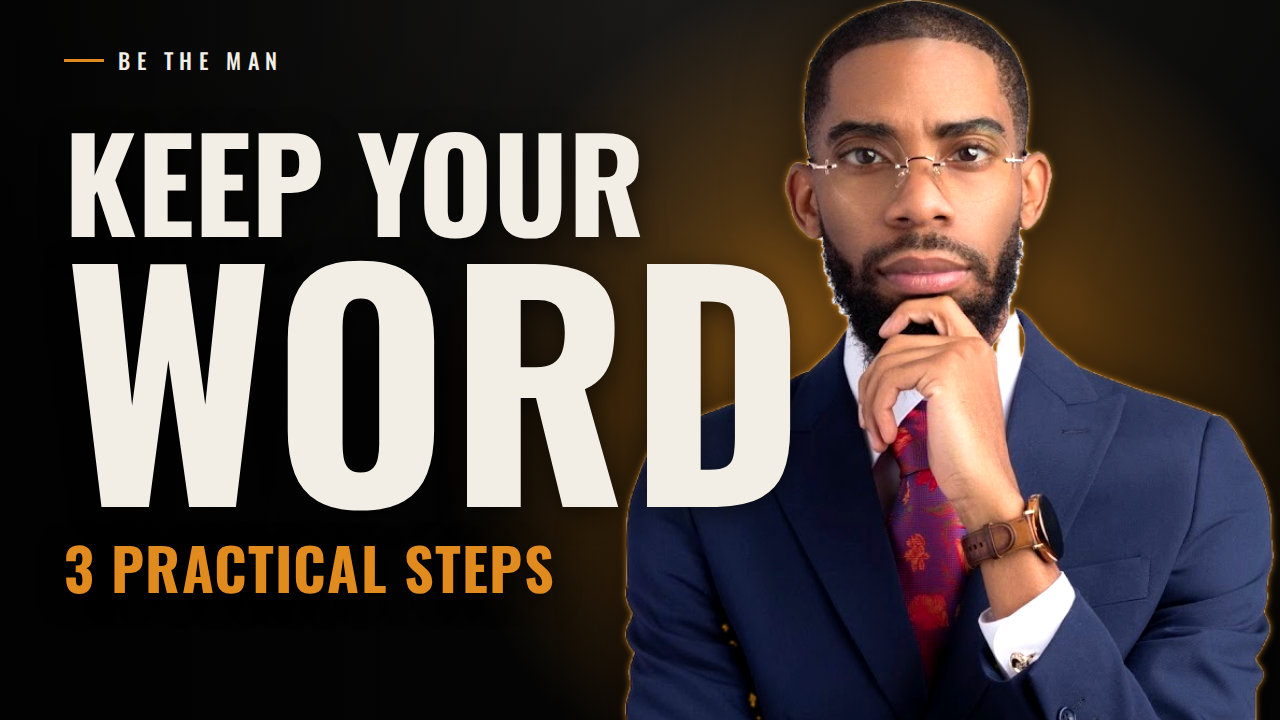
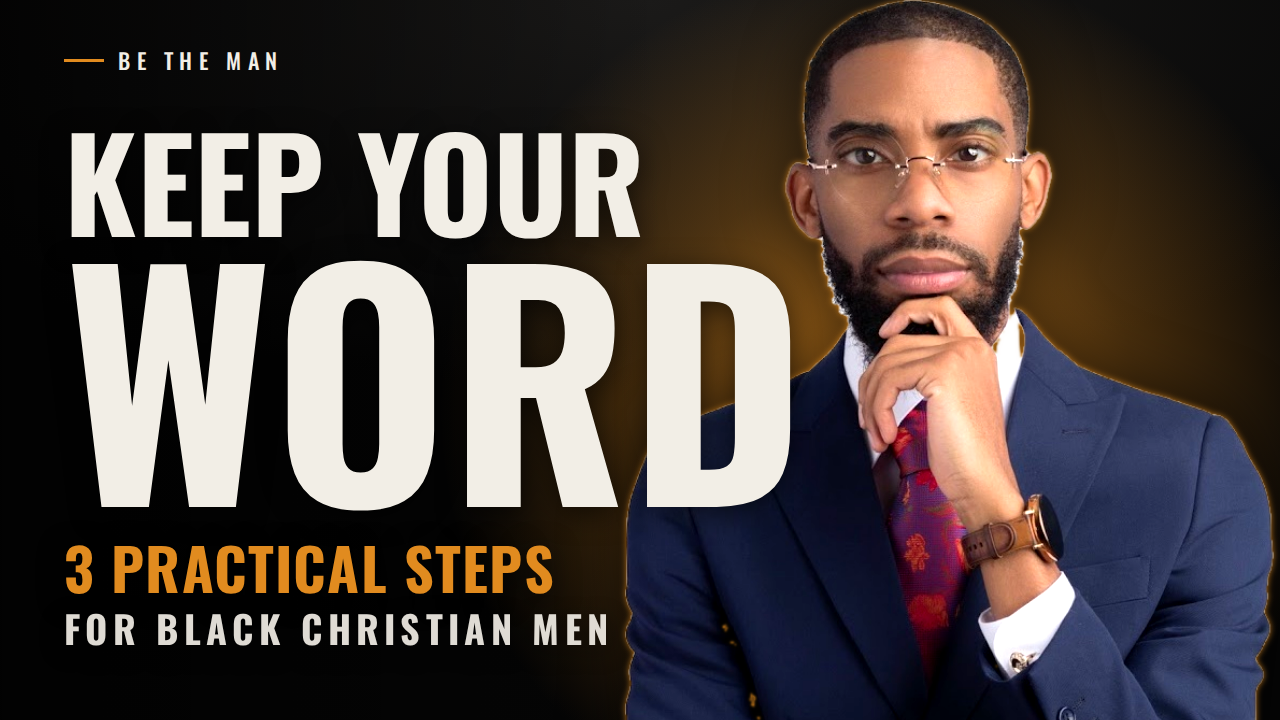
Aim keep-your-word video at Black Christian men (thumbnail, script, title, description, tags)
Claude-Session: https://claude.ai/code/session_01RwrZ13uXv7WXcEAUfWQJzd

Changed region(s): [[0.0312, 0.8556, 0.5, 0.9167]]

diff --git a/instagram/YOUTUBE-KEEP-YOUR-WORD.md b/instagram/YOUTUBE-KEEP-YOUR-WORD.md
@@ -1,4 +1,4 @@
-# YouTube: "How to Keep Your Word as a Christian Man (3 Steps)" (this week's 5-minute video)
+# YouTube: "How to Keep Your Word as a Black Christian Man (3 Steps)" (this week's 5-minute video)
 
 Script: `YOUTUBE-KEEP-YOUR-WORD-SCRIPT.md`
 **Thumbnail:** `posts/out/youtube-keep-your-word-thumbnail.png` (1280×720). Re-render with `node posts/youtube-thumb-keep-your-word.mjs`.
@@ -22,16 +22,17 @@ Script: `YOUTUBE-KEEP-YOUR-WORD-SCRIPT.md`
 
 ## Thumbnail
 
-"KEEP YOUR WORD" in huge cream type with **"3 PRACTICAL STEPS"** in amber, so the promise is a how-to, not a pitch. Your thinking-pose photo on black, amber glow, bottom-right clear for YouTube's duration badge.
+"KEEP YOUR WORD" in huge cream type with **"3 PRACTICAL STEPS"** in amber, so the promise is a how-to, not a pitch, and **"FOR BLACK CHRISTIAN MEN"** underneath so the right viewer knows it's for him. Your thinking-pose photo on black, amber glow, bottom-right clear for YouTube's duration badge.
 
 ## Title (pick one)
 
-**Recommended (50 characters):**
-`How to Keep Your Word as a Christian Man (3 Steps)`
+**Recommended (56 characters):**
+`How to Keep Your Word as a Black Christian Man (3 Steps)`
 
-- It keeps the exact phrase from your discovery plan and adds the "3 Steps" how-to promise.
+- It keeps the phrase from your discovery plan, adds the audience and the "3 Steps" how-to promise.
 - Alternatives:
-  - `How to Keep Your Word: A 3-Step Plan for Christian Men` (54)
+  - `How to Keep Your Word: 3 Steps for Black Christian Men` (54)
+  - `How to Keep Your Word as a Christian Man (3 Steps)` (50; the broader version if you want both audiences)
   - `How to Keep Your Word: 3 Practical Steps for Christian Men` (58; matches the thumbnail)
   - `How to Keep Your Word When You Keep Breaking It (3 Steps)` (57)
 
@@ -40,7 +41,7 @@ Script: `YOUTUBE-KEEP-YOUR-WORD-SCRIPT.md`
 ```
 ▶ Join the free 7-week challenge (one email and one small action a week): https://bethemansystem.com/7-week-challenge/
 
-How to keep your word as a Christian man, in 3 practical steps you can do today.
+How to keep your word as a Black Christian man, in 3 practical steps you can do today. For Black Christian men, husbands and fathers who keep making the same promise.
 
 STEP 1: PUT A TIME ON IT
 Fill in this sentence: "On ___, at ___, after ___, I will ___."
@@ -68,11 +69,11 @@ https://bethemansystem.com/step-1/
 ▶ The Be The Man Club (the whole system, $19 a month):
 https://bethemansystem.com/the-club/
 
-Be The Man is a seven-step consistency system for Christian men, created by Brian Greene, a pastor and father of three. Faith should function.
+Be The Man is a seven-step consistency system for Christian men, with a focus on Black Christian husbands and fathers, created by Brian Greene, a pastor and father of three. Faith should function.
 
 Break the cycle. Build the system. Be the man.
 
-#christianmen #keepyourword #bethemansystem
+#blackchristianmen #keepyourword #bethemansystem
 ```
 
 (Add real chapter timestamps once the video is cut, starting with `0:00`. Three hashtags only.)
@@ -80,12 +81,12 @@ Break the cycle. Build the system. Be the man.
 ## Tags (YouTube Studio > Show more > Tags)
 
 ```
-how to keep your word, keeping your word, how to keep promises, how to follow through, how to stop starting over, how to keep your promises to your wife, how to be a man of your word, christian men, christian discipline for men, godly man, godly husband, accountability for christian men, consistency system for christian men, 7 week challenge, be the man, bethemansystem
+how to keep your word, black christian men, black christian husband, black christian father, black men discipline, how to be a man of your word as a black man, keeping your word, how to keep promises, how to follow through, how to stop starting over, how to keep your promises to your wife, how to be a man of your word, christian men, christian discipline for men, godly man, godly husband, accountability for christian men, consistency system for christian men, 7 week challenge, be the man, bethemansystem
 ```
 
 ## Pinned comment
 
-> The 3 steps: 1) "On ___, at ___, after ___, I will ___." 2) One miss = a miss, two in a row = shrink it. 3) Text one man: "done" or "missed." Join the free 7-week challenge: bethemansystem.com/challenge . Tell me below: what's the one promise you're filling in the blanks for?
+> The 3 steps: 1) "On ___, at ___, after ___, I will ___." 2) One miss = a miss, two in a row = shrink it. 3) Text one man: "done" or "missed." Join the free 7-week challenge: bethemansystem.com/challenge . Brothers, tell me below: what's the one promise you're filling in the blanks for?
 
 ## Upload checklist
 

diff --git a/instagram/YOUTUBE-KEEP-YOUR-WORD-SCRIPT.md b/instagram/YOUTUBE-KEEP-YOUR-WORD-SCRIPT.md
@@ -1,8 +1,9 @@
-# Script: "How to Keep Your Word as a Christian Man (3 Steps)"
+# Script: "How to Keep Your Word as a Black Christian Man (3 Steps)"
 
 **Length:** 5 minutes (~560 spoken words at a calm 140 words a minute, so about 4 minutes of talking, plus the pause in step one, the on-screen templates and the close).
 **What the viewer gets:** three steps he can do today, a fill-in-the-blank sentence, the exact text to send a friend, and the exact words to say to his wife or kids after he's broken a promise.
 **The one call to action:** **Join the free 7-week challenge. bethemansystem.com/challenge.**
+**Audience:** Black Christian men, husbands and fathers who keep making the same promise (the wording your challenge page uses). Speak to one brother. Use "brother" naturally, the way you would talking to a man in your own church. Don't generalize about Black men or lean on stereotypes; speak to the man, his home and his faith.
 **Tone:** calm, direct, practical. No guilt, no theory. Talk to one man.
 **Shape:** the practical content is the video. The challenge is the follow-through at the end, and it's mentioned briefly at 0:25 so nobody leaves before hearing it.
 
@@ -12,7 +13,9 @@
 
 ## 0:00 HOOK (about 20 seconds)
 
-[ON SCREEN: "HOW TO KEEP YOUR WORD: 3 STEPS" then cut to you]
+[ON SCREEN: "HOW TO KEEP YOUR WORD: 3 STEPS, FOR BLACK CHRISTIAN MEN" then cut to you]
+
+This one is for Black Christian men, husbands and fathers who keep making the same promise.
 
 You told your wife you'd do something. You told your kids. You told yourself. And it slipped.
 
@@ -54,13 +57,13 @@ If you miss twice in a row, the plan is too big. Shrink it. A five-minute prayer
 
 ## 2:50 STEP THREE: TELL ONE MAN (about 1:00)
 
-Step three. Tell one man. Not a crowd. One.
+Step three. Tell one brother. Not a crowd. One.
 
-Pick a man who'll answer a text. Send him this: "I'm going to ___ at ___. Text me Sunday night. Say done or missed."
+Pick a brother who'll answer a text. Send him this: "I'm going to ___ at ___. Text me Sunday night. Say done or missed."
 
 [ON SCREEN: the text, word for word: "I'm going to ___ at ___. Text me Sunday night. Say done or missed."]
 
-And then once a week, you text each other one word. Done. Or missed. No speeches. No excuses. That's the whole thing. Knowing he's going to ask changes what you do on Tuesday.
+And then once a week, you and your brother text each other one word. Done. Or missed. No speeches. No excuses. That's the whole thing. Knowing he's going to ask changes what you do on Tuesday.
 
 ## 3:50 IF YOU'VE ALREADY BROKEN YOUR WORD (about 45 seconds)
 
@@ -95,5 +98,6 @@ Break the cycle. Build the system. Be the man.
 - **The ask stays word for word:** "Join the free 7-week challenge. bethemansystem.com/challenge." Say the short link, not the long one. It's on screen all three times.
 - **One ask only.** No store, no Club, no group.
 - **Don't promise a result.** "Small is how you keep your word for weeks" is honest. "You'll never break your word again" is not.
+- **Optional personal line:** if you want, one sentence about your own story (your site says you grew up without a father in the house) can make the "keep your word" point land harder. Only use it if you want to; it's your story to tell.
 - **Tone check:** keep step four warm, not heavy. The point is repair, not guilt.
 - **Verify before filming:** read Matthew 5:37 in your translation (I used the ESV wording). I removed the research statistics from this version so there's nothing else to verify.
